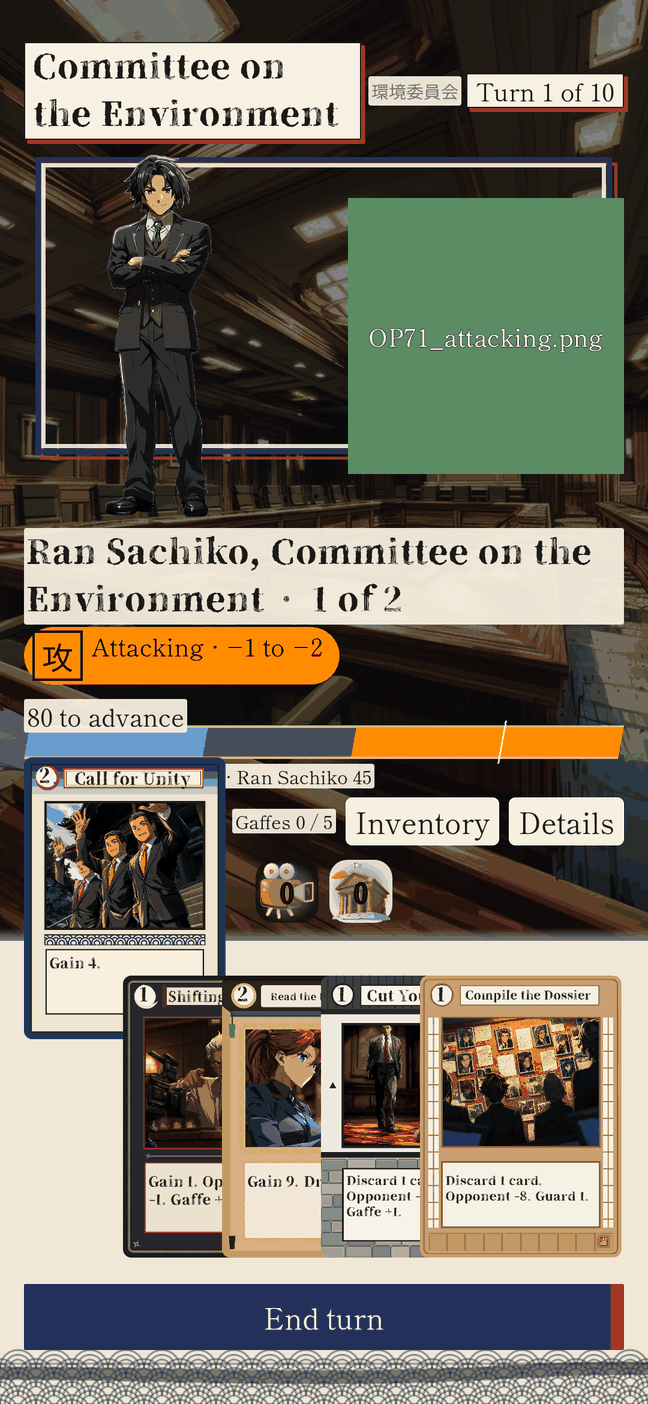
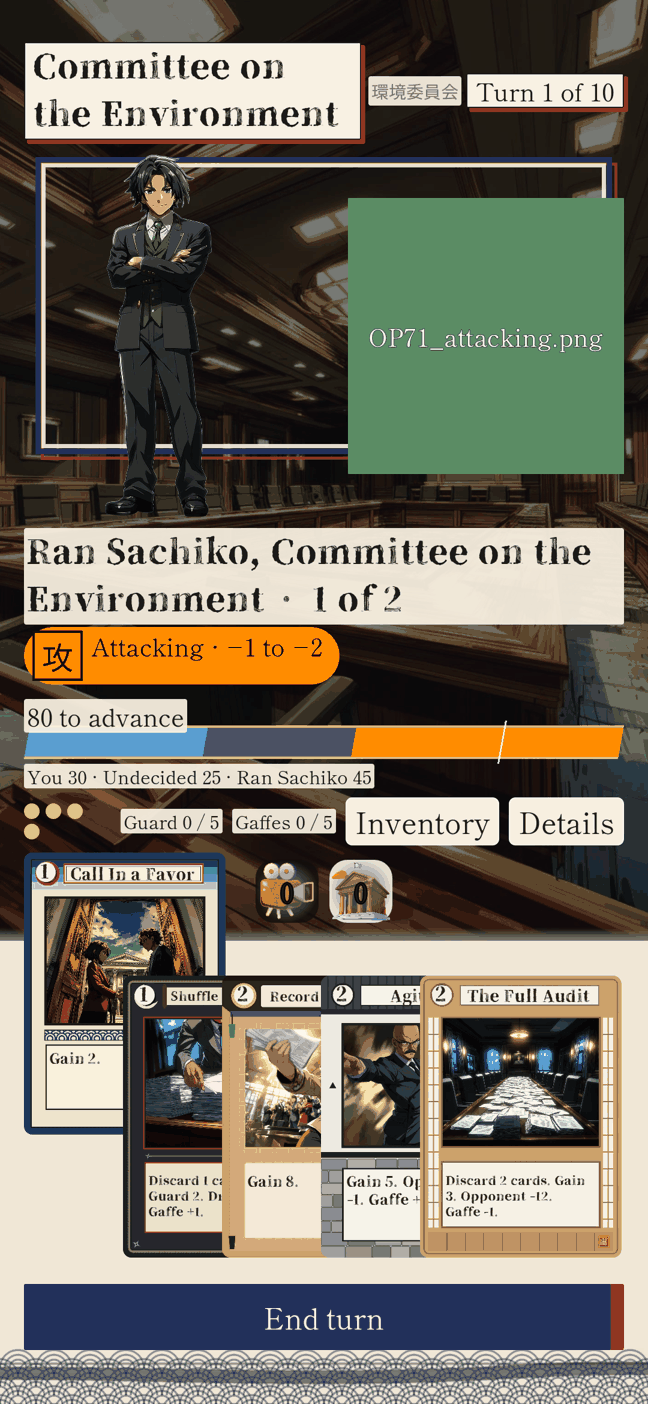
A held card stops below the Guard and Gaffes counters; report brought up to date
The lifted card no longer covers the Guard and Gaffes counters in any style or screen shape (playing still needs the same drag). hand_input_test checks it mid-drag. Drag shots retaken. REPORT.md updated: 114 shots, week-over pop-up shot, room objects built, commit list, Rounds 3 and 4, merge at 4937a12c.

Claude-Session: https://claude.ai/code/session_01DfMHaaSwffhC48YRSkV9vX

diff --git a/design/review/p9_ui_styles_2026-11-17/REPORT.md b/design/review/p9_ui_styles_2026-11-17/REPORT.md
@@ -1,6 +1,6 @@
 # Panel P9: UI styles and End of Week Payments (2026-11-17)
 
-Branch `panel/p9-ui-styles`, from `main` (the card-face fix and the text sweep are already in `main`). All wording is a draft for Cameron. **The design is built except the three items listed under "Left out" (section 4).** Section 4 lists exactly what is missing.
+Branch `panel/p9-ui-styles`, from `main` (the card-face fix and the text sweep are already in `main`). All wording is a draft for Cameron. **The design is built, including the room objects and the five mockup elements the panel found missing.** Merged to `main` at `4937a12c` (fast-forward, after `tools/verify.sh` printed "All checks passed"). Section 4 lists the departures from the mockups.
 
 ## Review response (panel review of `b4dd74f`)
 
@@ -37,7 +37,7 @@ Branch `panel/p9-ui-styles`, from `main` (the card-face fix and the text sweep a
 | 5 | Saved with the run or per device | **With the run** |
 | 6 | Three fonts | **Yes** (Latin subsets; Japanese falls back to Noto Sans JP) |
 | 7 | Seats | **20 seats of 5**, plus: for counts that are not people or votes (press tone) draw a **continuous semicircle that fills like the regular bar** (built) |
-| 8 | Room-object pairings | **Yes as listed** (not built yet) |
+| 8 | Room-object pairings | **Yes as listed** (**built**: pins on both Office pictures) |
 | - | Mockups | Cameron's PDFs were rendered to PNGs in `design/proposals/img/ui_styles/` |
 | R2-1 | Room objects | **I place them, you adjust**: placed from the two Office pictures in `art.json` `office_hotspots` |
 | R2-2 | Next build | **Living Office rest**: bubble cue, intent pill, folders list (and the room objects) |
@@ -59,7 +59,7 @@ Spec "Done means" (UI Styles section 9 and End of Week Payments section 6).
 | Touch targets of 44 pt or more (`tools/ui_target_audit.py`) | **Fail (existing)** | 420 targets on 21 screens: smallest side 80 to 100 px against 122. P9's own new controls are larger (Office styles buttons 90 to 100 px, payments box 200 px) but still not 122. This is the whole app's state, not a P9 regression; raising every button needs your decision |
 | `tools/verify.sh` passes; GAME_SYSTEMS, ARCHITECTURE, CHANGELOG updated | **Pass** (section 3) | Docs updated: GAME_SYSTEMS, INFORMATION_STANDARDS (Week end row), ARCHITECTURE, CHANGELOG, CLAUDE.md index |
 | EOW: the Office shows End of Week Payments in every style, total and both parts | **Pass** | `*_office_*` shots; parity test |
-| EOW: breakdown on tap and in the week-over pop-up before the choice | **Pass (pop-up not re-shot)** | `*_payments_panel_*` shots for the tap. The week-over pop-up uses the same `WeekPaymentsView` rows and passes `week_test`; I did not capture a new pop-up shot |
+| EOW: breakdown on tap and in the week-over pop-up before the choice | **Pass** | `*_payments_panel_*` shots for the tap; `*_weekover_*` shots for the week-over pop-up (same `WeekPaymentsView` rows; `week_test` passes) |
 | EOW: preview equals settlement, including a shortfall | **Pass** | `tests/test_week_payments.gd` (six tests: total is dues plus wages; raised pay shown and charged; a shortfall names who goes unpaid and matches the settlement; pay order; no staff) |
 | EOW: old Text rows retired through the workbook | **Pass** | `dues.box_dues` and four `office.week_cost_*` rows removed with `wbx.py` (the new rows replace them) |
 | EOW: GAME_SYSTEMS, Information Standards row, CHANGELOG | **Pass** | |
@@ -105,6 +105,31 @@ Existing click tests changed because the hand no longer scrolls sideways: `loop_
 | f99c66c | Tests expect the no-break 'n of m' captions |
 | 5675ac4 | Review fix 5: organization icons get a dark backing, so they read 3 to 1 in every style (measured from pixels) |
 | 11ec338 | Review response: changelog, architecture, report and 108 compressed shots; reason on a blocked level stays at full strength |
+| 5dd4cd7 | Review response: regenerated themes (stronger disabled text), report with the final verify result and commit list |
+| 5c90e74 | Hour rings: Living Office level rows show their hours in a ring (red and tilted when the level cannot start) |
+| 863ce5f | Last gaps: screenshot previews in the styles shop, room-object words on the pins, dashed Draft a Bill tab |
+| beff293 | Intent line is a pill in the opponent's party colour (default crimson, held apart from Keizaijiyuutou's red) |
+| 9a58399 | Seats and bar take the pill's colour (one colour per opponent); `hand_input_test` and a pill text-contrast check for every party |
+| c088547 | Icon backings and seat rings follow the colour they sit with; all shots retaken |
+| be9ebdc | Five mockup elements: Living page-a-day calendar (Era and Ainu aware) and narration bubble, Woodblock waves and framed print, Broadcast split cut-ins |
+| 4937a12 | Bubble ink fix, regression check, report/changelog/architecture, 114 shots including Era and Ainu calendars (**merged to `main` here**) |
+
+## 3b. Rounds 3 and 4: answers to the panel reviews
+
+**Round 3** (review of `b4dd74f`, seven findings; answered in `fd092fa` to `11ec338`, table above).
+
+**Round 4** (review of the round-3 work, all minor):
+
+| Finding | Answer |
+|---|---|
+| The report claimed more than was built | Fixed: the report lists exactly what differs (section 4); this version drops the "except three items" line |
+| Opponent showed two colours (pill and seats) | One colour per opponent: pill, bar segment and seats (`beff293`, `9a58399`) |
+| Six stale screenshots | All shots retaken, 114 in all (`c088547`, `4937a12`) |
+| Missing tests | `hand_input_test` (real drag) and a pill text-contrast check for every party |
+| Five unbuilt mockup elements | Built (`be9ebdc`), plus Era and Ainu calendar support |
+| Narration bubble late lines in light ink | Theme set on the bubble, with a regression check (`4937a12`) |
+
+**Tidy after the merge** (branch `panel/p9-tidy`): a lifted card covered the Guard and Gaffes counters in every style. The card now stops rising just below the counters (`CardView.max_rise`, set per lift from the counters' real positions); playing a card still needs the same 220 px of finger travel. `hand_input_test` checks mid-drag that the card does not overlap either counter (it fails without the cap, passes at 440x952 and 540x960). The nine `*_battle_*_drag` shots were retaken.
 
 ## 4. Departures from the mockups, and what is not built
 

diff --git a/design/CHANGELOG.md b/design/CHANGELOG.md
@@ -1248,3 +1248,8 @@ What is in, what is not. See `design/review/p9_ui_styles_2026-11-17/REPORT.md` f
   - **Broadcast split cut-ins:** two slanted shots behind the characters, yours in blue and the opponent's in their pill colour, divided by the gold diagonal with gold rules top and bottom.
   - All are drawn marks (`StyleMarks`): no art files, no new words, so the same-information rule holds.
 
+
+## 2026-11-17: A held card no longer covers the Guard and Gaffes counters
+
+- While a card is held it rises only as far as just below the Guard and Gaffes counters, in every style and screen shape. Playing it still needs the same drag distance. No rule or number changed.
+- `hand_input_test` now checks mid-drag that the card does not overlap either counter. The nine mid-drag battle shots in the P9 review folder were retaken.

diff --git a/CLAUDE.md b/CLAUDE.md
@@ -283,3 +283,4 @@ The September and October 2026 work is summarized at the top of `design/CHANGELO
 - Text sweep: every screen readable at every text size and screen shape (2026-11-17, Cameron)
 - Information standards, panel P4: week-end costs, Funds-limit reasons, contrast plates, win-result icons, staff item wording (2026-11-17, Cameron)
 - UI styles and End of Week Payments, panel P9 (2026-11-17, Cameron)
+- A held card stops below the Guard and Gaffes counters (2026-11-17, Cameron)
